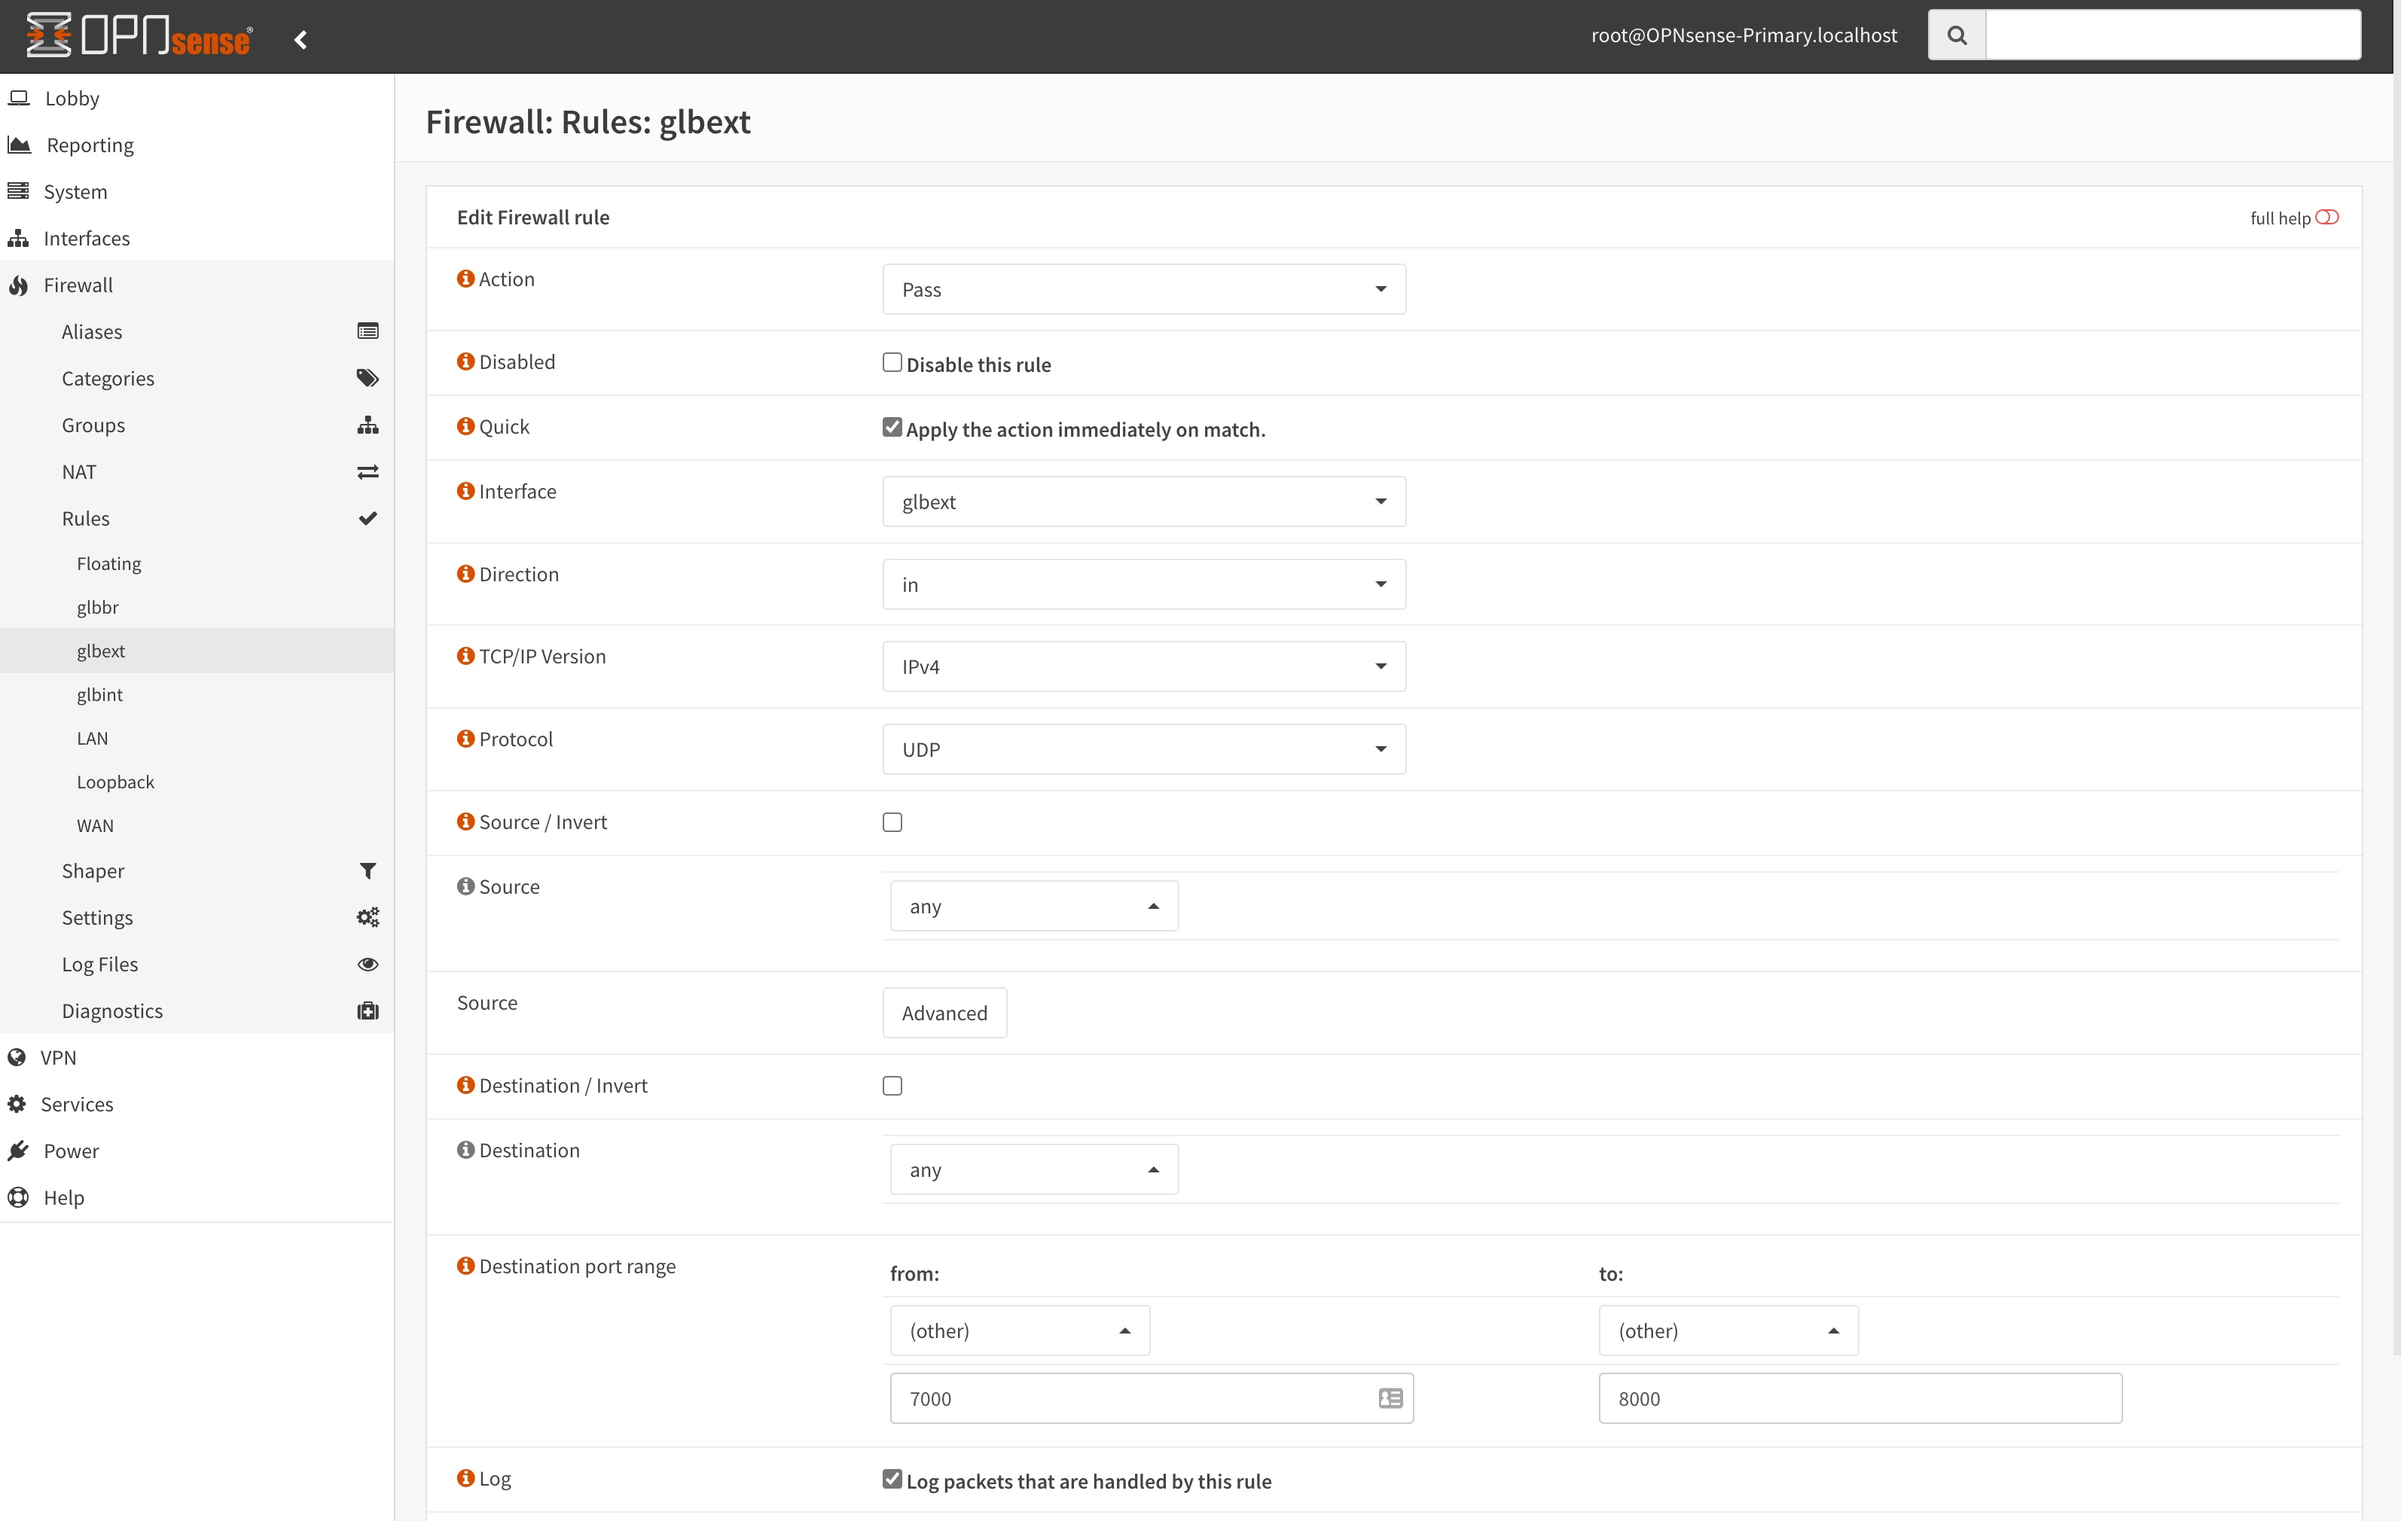
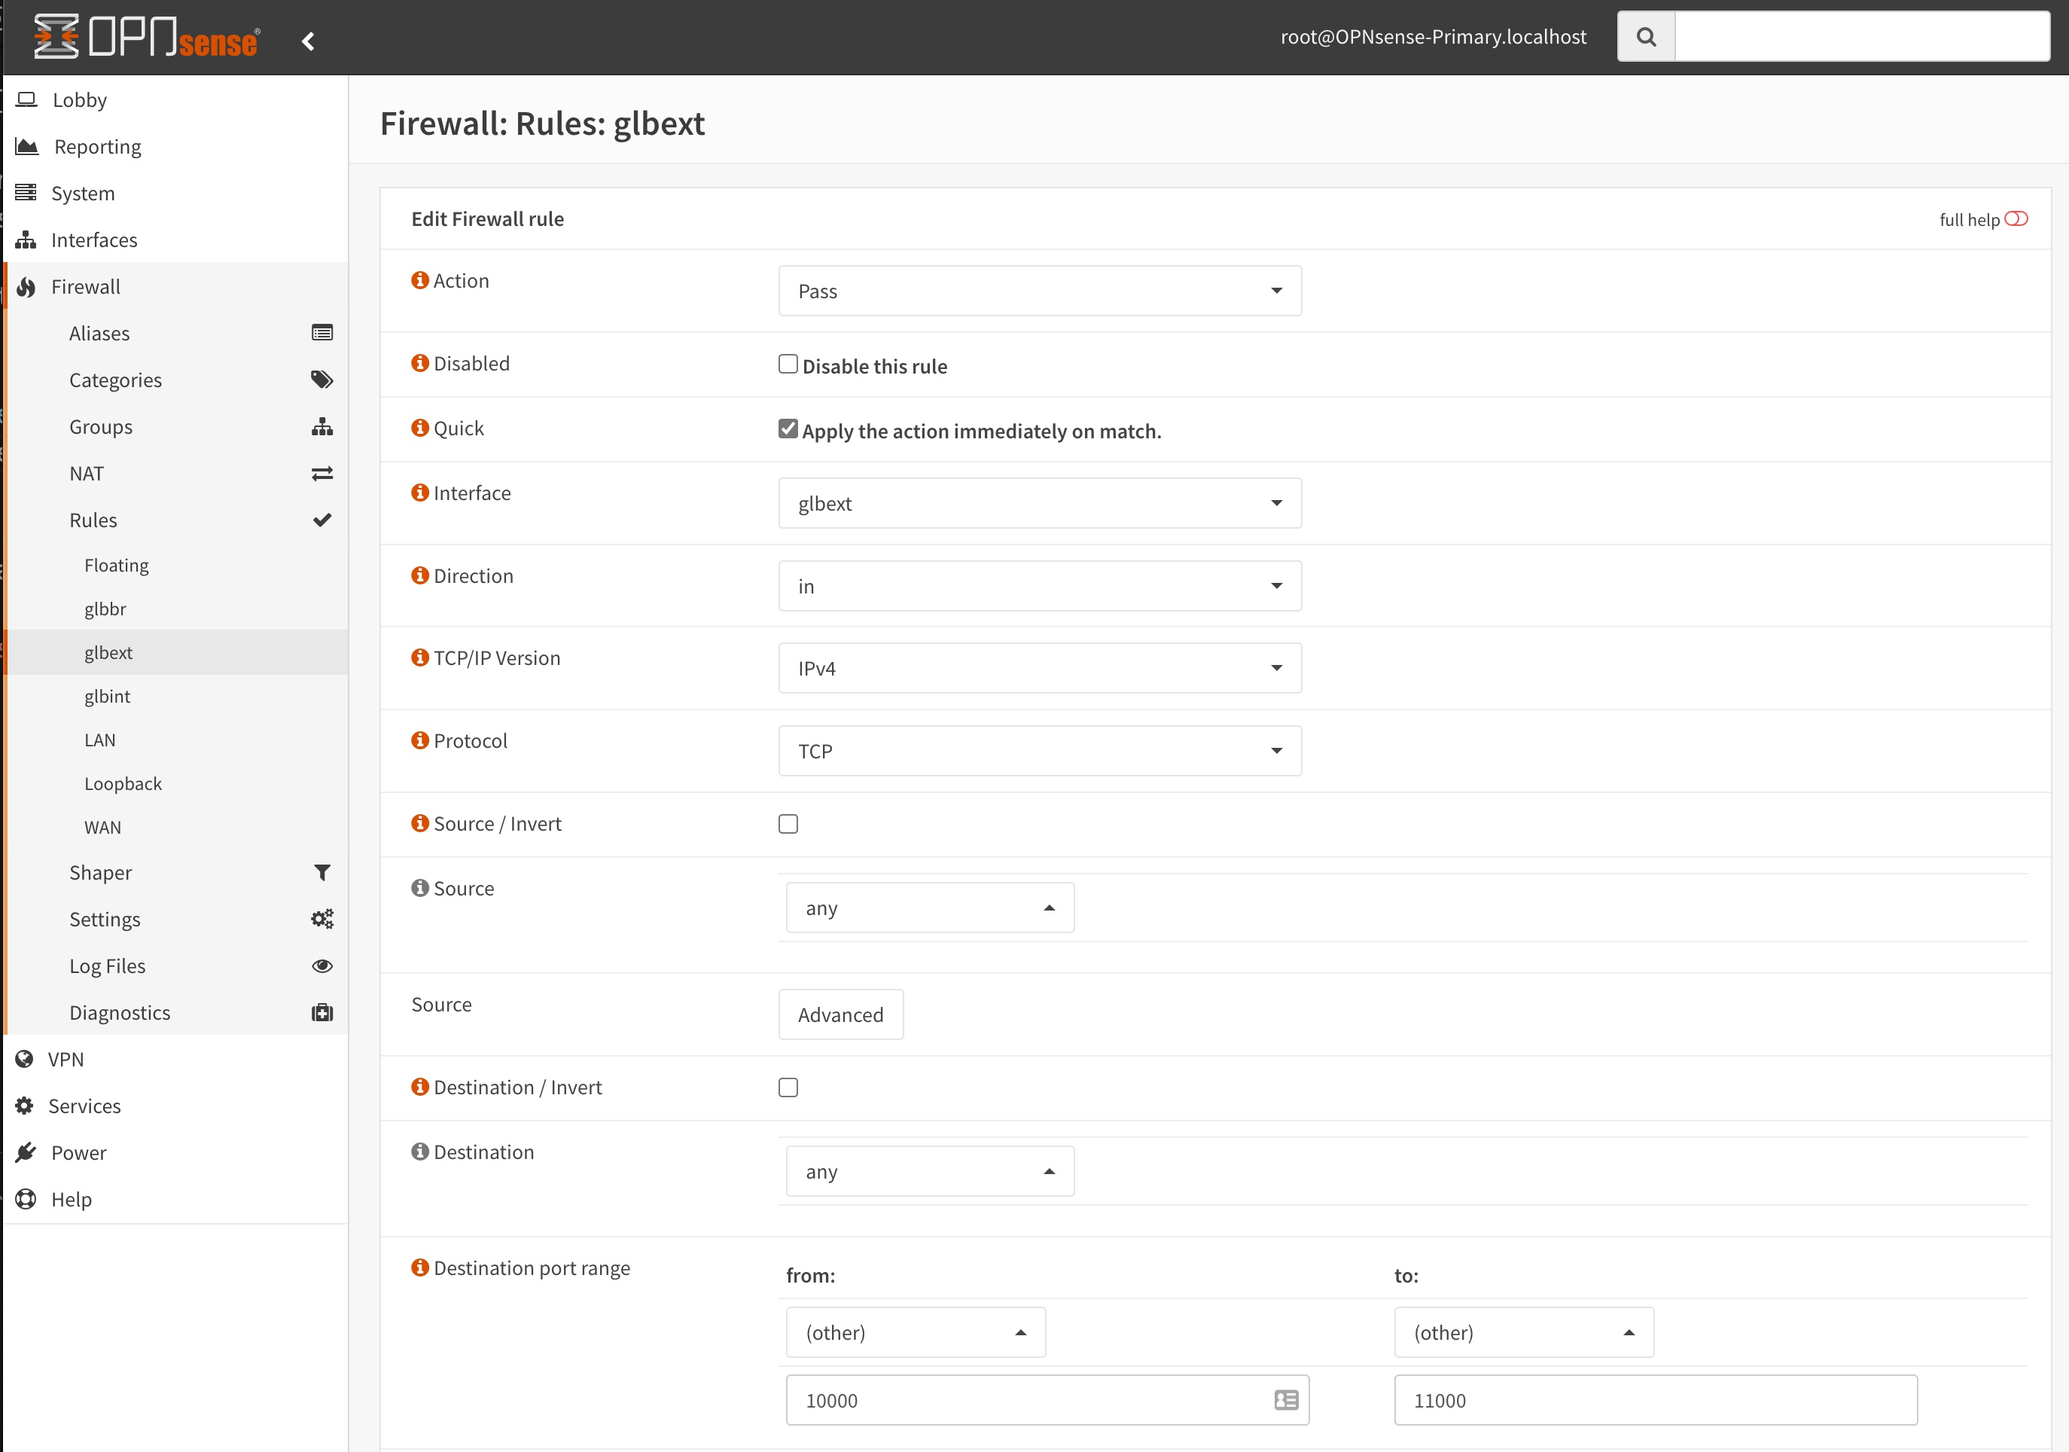
switched to Thundernetes

diff --git a/README.md b/README.md
@@ -45,35 +45,37 @@ First we need to create the Gateway Load Balancer consuming system, which will b
     --vnet-subnet-id $subnetid
     ```
 
-1. Get the cluster credentials and deploy Agones:
+1. Get the cluster credentials and deploy Thundernetes:
 
     ```bash
     # Get cluster credentials
     az aks get-credentials -g $consumer_rg -n consumer-aks
 
-    # Install Agones (https://agones.dev/site/docs/installation/install-agones/yaml/)
-    kubectl create namespace agones-system
-    kubectl apply -f https://raw.githubusercontent.com/googleforgames/agones/release-1.23.0/install/yaml/install.yaml
+    # Install Thundernetes (https://playfab.github.io/thundernetes/quickstart.html)
+    # Install Cert-Manager
+    kubectl apply -f https://github.com/cert-manager/cert-manager/releases/download/v1.8.0/cert-manager.yaml
+
+    # Install Thundernetes
+    kubectl apply -f https://raw.githubusercontent.com/PlayFab/thundernetes/main/installfiles/operator.yaml
     ```
 
 1. Deploy a game server and get some values, which we'll use more extensively later, and test the gameserver:
 
     ```bash
-    # Deploy a Game Server (https://agones.dev/site/docs/getting-started/create-gameserver/)
-    kubectl create -f https://raw.githubusercontent.com/googleforgames/agones/release-1.23.0/examples/simple-game-server/gameserver.yaml
+    # Deploy a Game Server:
+    kubectl apply -f https://raw.githubusercontent.com/PlayFab/thundernetes/main/samples/netcore/sample.yaml
 
     # Get the Game Name Server IP and port
     gameservername=$(kubectl get gs -o jsonpath='{.items[0].metadata.name}')
-    gameservernodename=$(kubectl get gs -o jsonpath='{.items[0].status.nodeName}')
-    gameserverip=$(kubectl get gs -o jsonpath='{.items[0].status.address}')
-    gameserverport=$(kubectl get gs -o jsonpath='{.items[0].status.ports[0].port}')
+    gameservernodename=$(kubectl get gs $gameservername -o jsonpath='{.status.nodeName}')
+    gameserverip=$(kubectl get gs $gameservername -o jsonpath='{.status.publicIP}')
+    gameserverport=$(kubectl get gs $gameservername -o jsonpath='{.spec.template.spec.containers[0].ports[0].hostPort}')
 
     # Test the Game Server
-    # After running this command you can type messages in the terminal and they 
-    # will be echoed by the game server via netcat
-    kubectl run netcat -it --rm --image=busybox -- nc -u $gameserverip $gameserverport
+    kubectl run gstest -it --rm --image=busybox -- wget $gameserverip:$gameserverport/Hello -q --output-document -
 
-    # Hit CTRL-C to exit the pod
+    # You should see a response like the following:
+    Hello from fake GameServer with hostname gameserverbuild-sample-netcore-izzbt
     ```
 
 ## Create the Gateway Loadbalancer and Deploy OpnSense
@@ -147,7 +149,7 @@ First we need to create the Gateway Load Balancer consuming system, which will b
     -g $consumer_rg \
     --lb-name gameserver-lb \
     --name $gameservername \
-    --protocol udp \
+    --protocol tcp \
     --backend-pool-name gameserver-lbbepool \
     --frontend-port-range-start $gameserverport \
     --frontend-port-range-end $gameserverport \
@@ -165,7 +167,7 @@ az network nsg rule create \
 --nsg-name $managednsg \
 -n $gameservername \
 --access Allow \
---protocol Udp \
+--protocol Tcp \
 --destination-port-ranges $gameserverport \
 --priority 100
 ```
@@ -177,7 +179,7 @@ az network nsg rule create \
     gameserverpubip=$(az network public-ip show --resource-group $consumer_rg --name $gameservernodename -o tsv --query ipAddress)
 
     # Netcat through the SLB NAT Rule
-    nc -u $gameserverpubip $gameserverport
+    wget $gameserverpubip:$gameserverport/Hello -q --output-document -
     ```
 
 ### Connect the Game Server IP to the Gateway Loadbalancer
@@ -212,7 +214,7 @@ az network nsg rule create \
 
     ![glbext rules](images/glbextrules1.jpg)
 
-1. Set the protocol to UDP and the Destination Port Range from 7000 to 8000
+1. Set the protocol to TCP and the Destination Port Range from 10000 to 11000
 
     ![glbext rules](images/glbextrules2.jpg)
 
@@ -221,11 +223,8 @@ az network nsg rule create \
 1. Test your netcat and check the firewall logs
 
     ```bash
-    nc -u $gameserverpubip $gameserverport
-    Hello
-    ACK: Hello
-    World
-    ACK: World
+    wget $gameserverpubip:$gameserverport/Hello -q --output-document -
+    Hello from fake GameServer with hostname gameserverbuild-sample-netcore-izzbt
     ```
 
     >*Note:* You can filter the logs using your public IP
